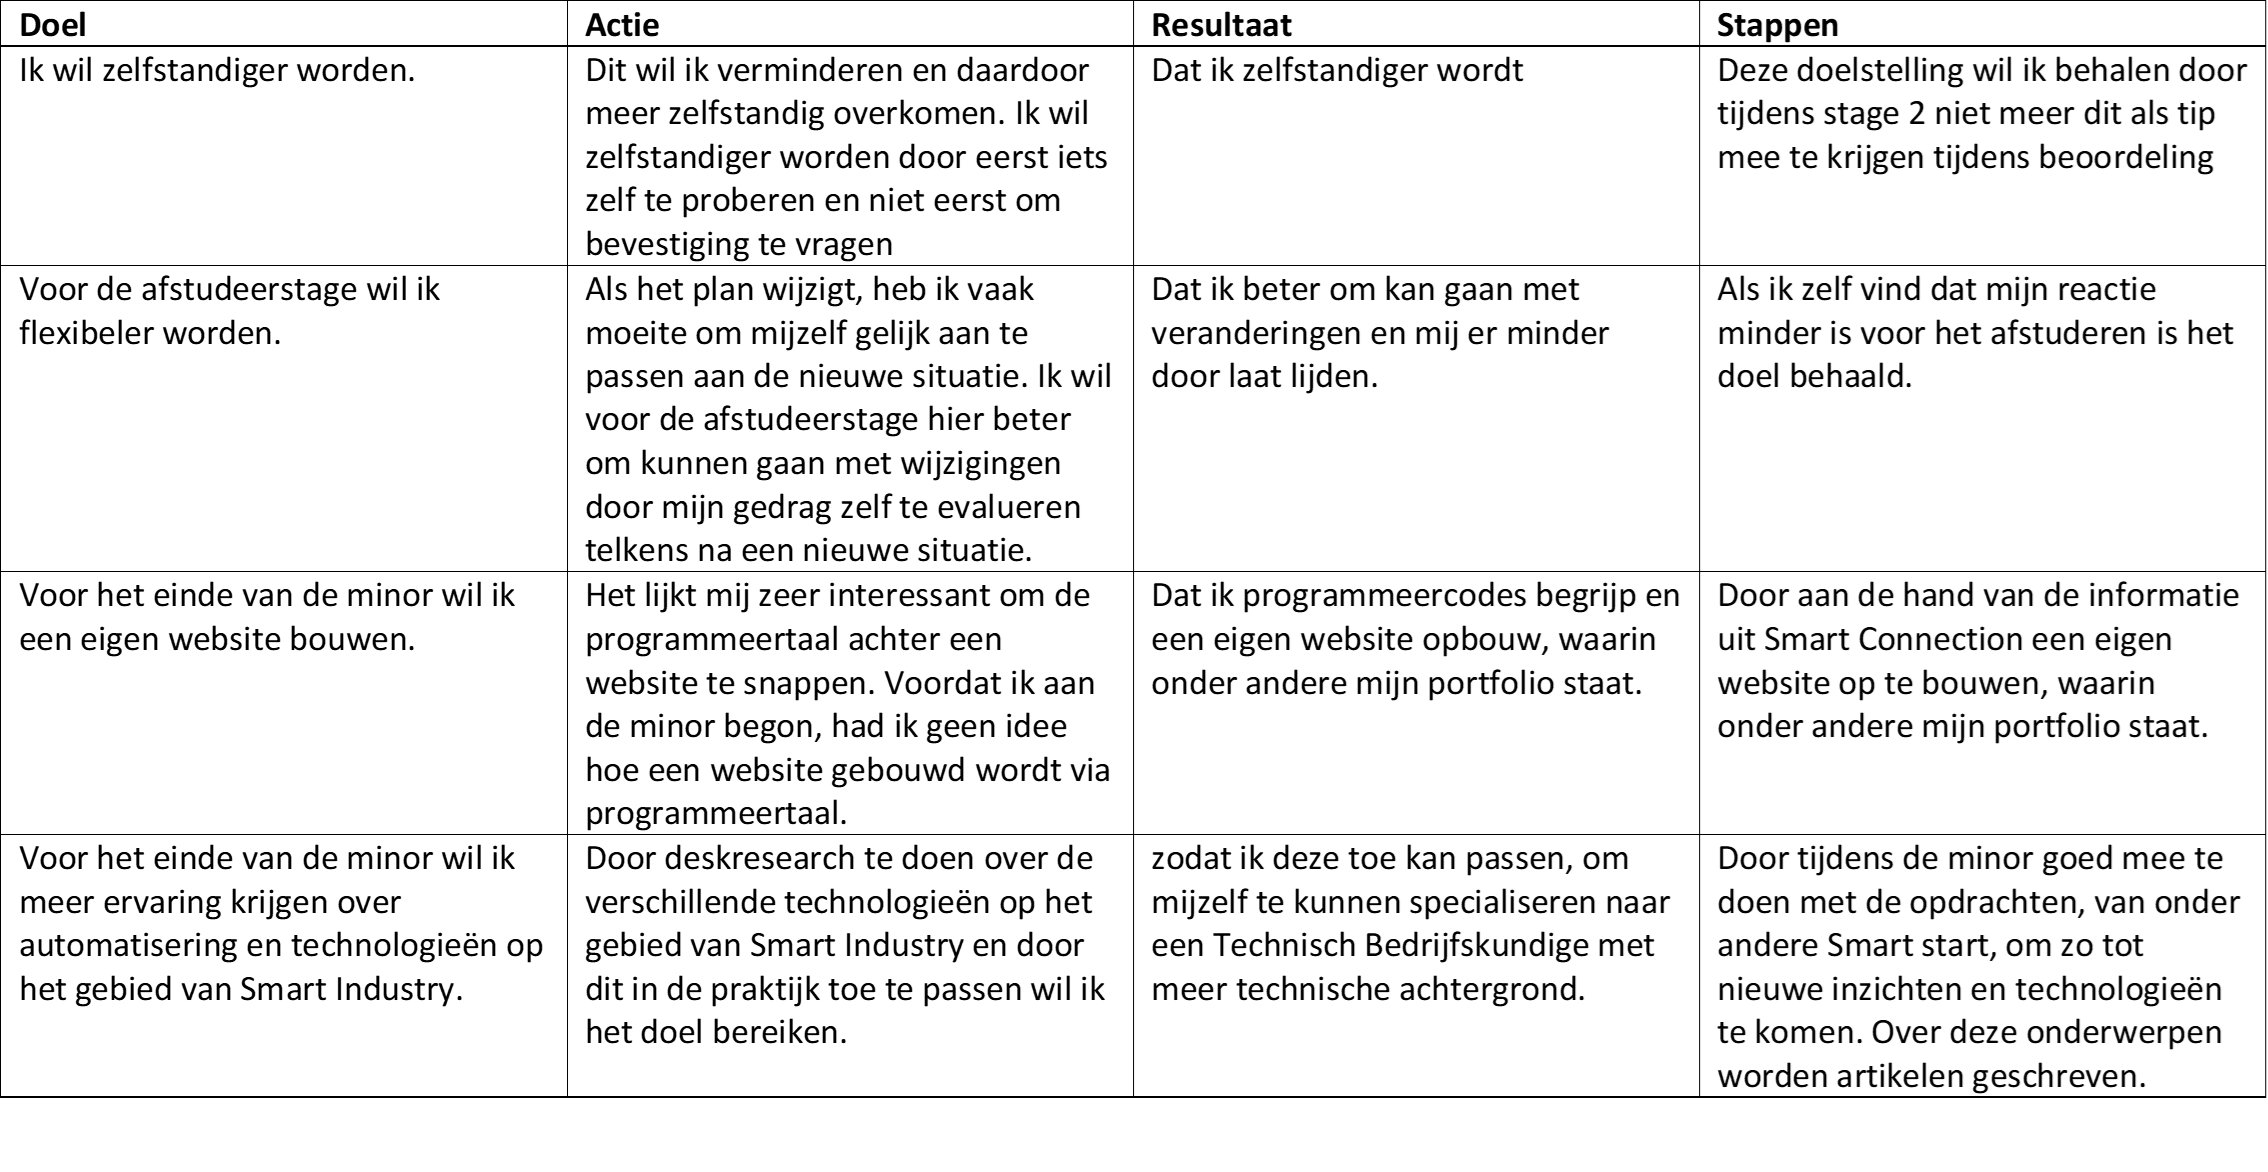
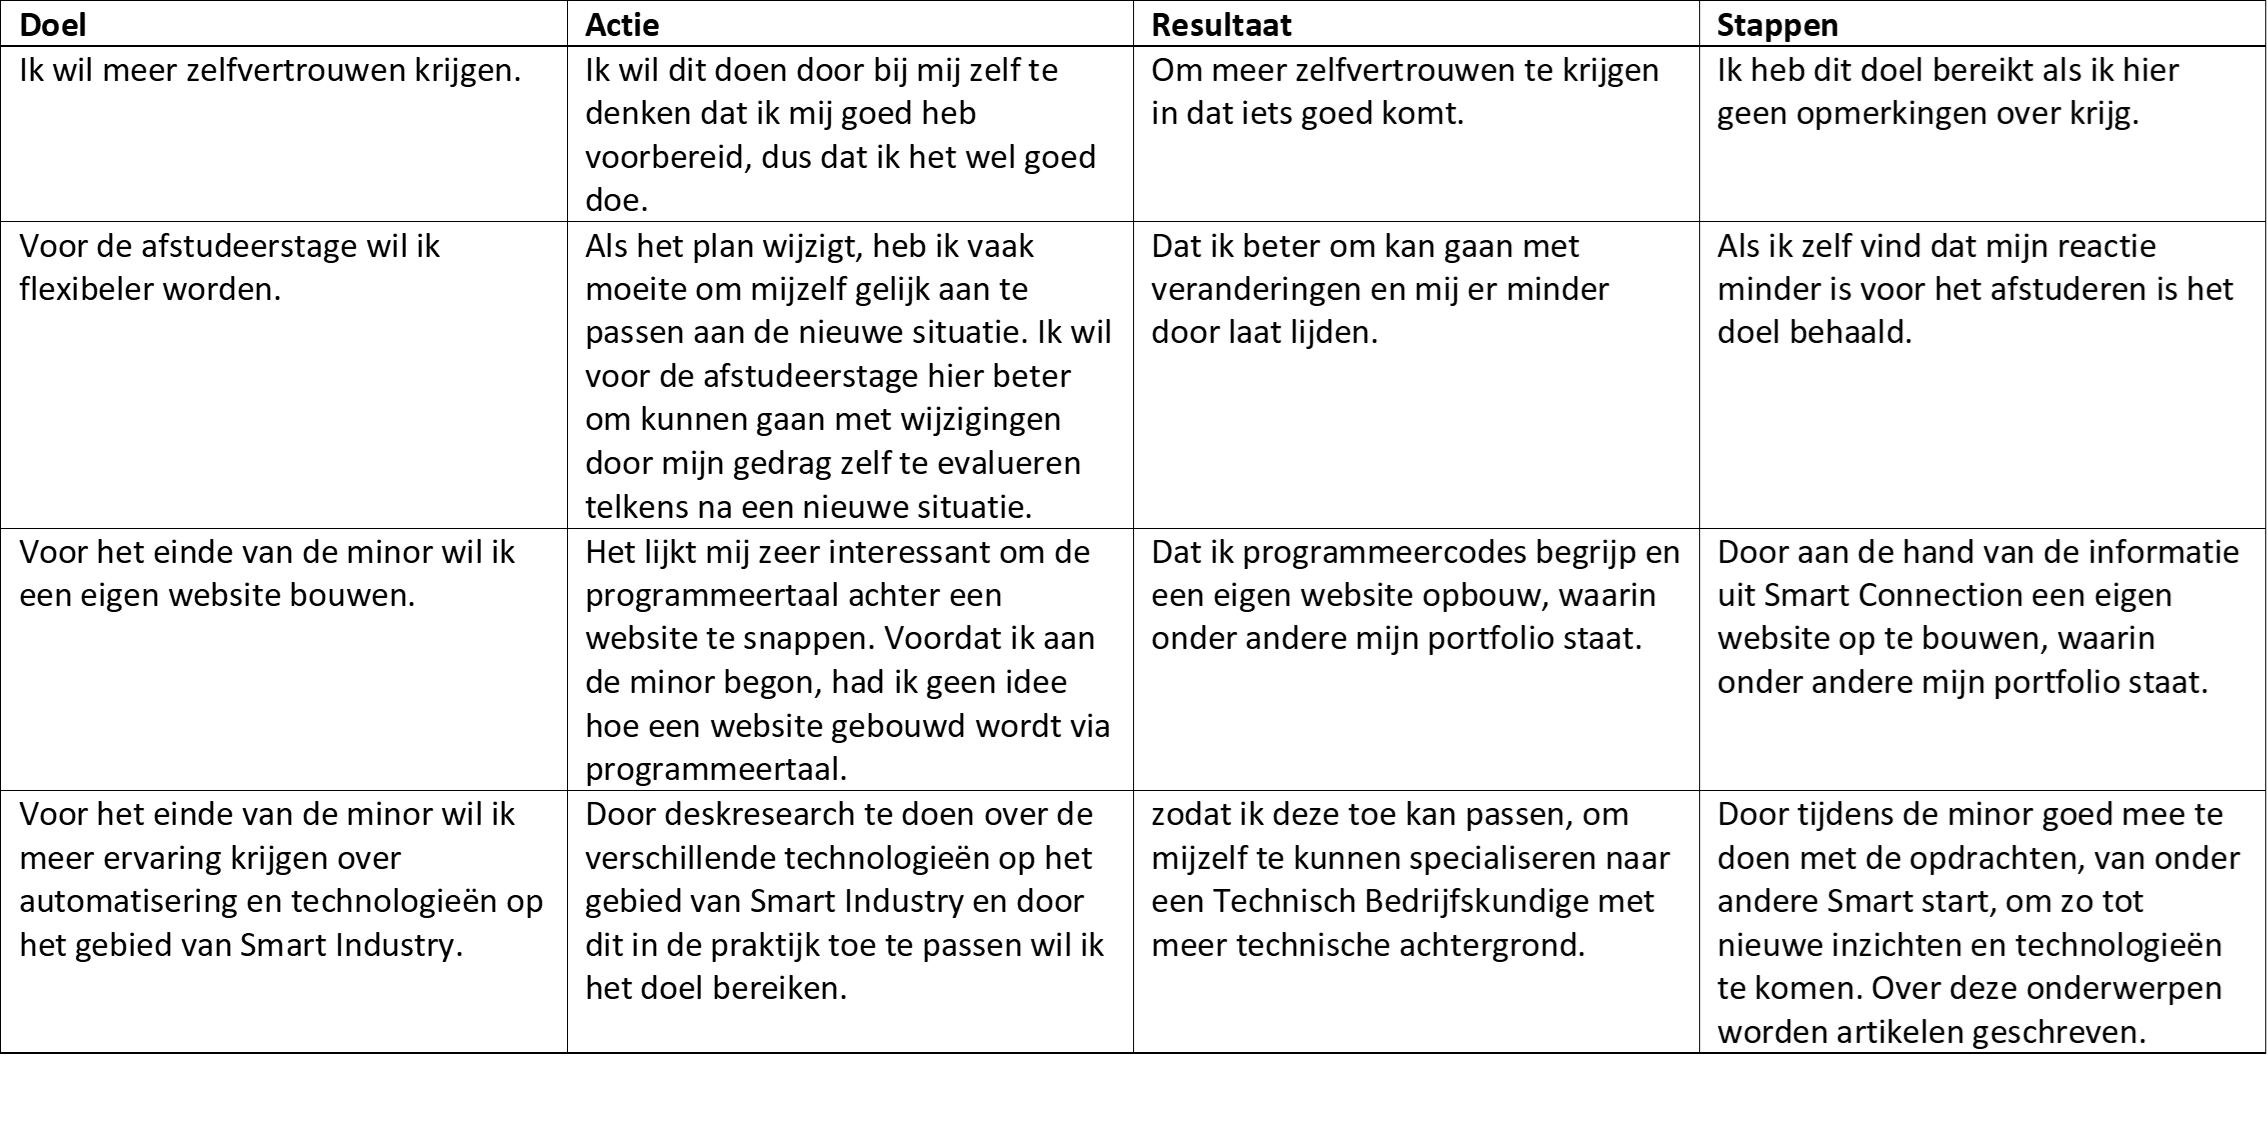
update 11-12-2020

Changed region(s): [[0.0, 0.0, 1.0, 0.9619], [0.7407, 0.1862, 0.9877, 0.3413], [0.0, 0.1862, 0.216, 0.3103]]

diff --git a/portfolio/SmartStart/SmartMe.html b/portfolio/SmartStart/SmartMe.html
@@ -74,7 +74,7 @@
     <div class="doelstelling">
         <h4>Doelstellingen geformuleerd:</h4> 
     <ul>
-        <li>Ik wil zelfstandiger worden. Op dit moment heb ik de neiging om voor veel dingen die ik doe eerst bevestiging te vragen voordat ik dit uitvoer. Dit wil ik verminderen en daardoor meer zelfstandig overkomen. Ik wil zelfstandiger worden door eerst iets zelf te proberen en niet eerst om bevestiging te vragen. Deze doelstelling wil ik behalen door tijdens stage 2 niet meer dit als tip mee te krijgen tijdens beoordeling. 
+        <li>Ik wil meer zelfvertrouwen krijgen. Op dit moment voel ik mij nog onzeker of ik zaken wel goed uitvoer. Ik wil dit doen door bij mij zelf te denken dat ik mij goed heb voorbereid, dus dat ik het wel goed doe. Ik heb dit doel bereikt als ik hier geen opmerkingen over krijg. 
         </li>
         <li>Voor de afstudeerstage wil ik flexibeler worden. Als het plan wijzigt, heb ik vaak moeite om mijzelf gelijk aan te passen aan de nieuwe situatie. Ik wil voor de afstudeerstage hier beter om kunnen gaan met wijzigingen door mijn gedrag zelf te evalueren telkens na een nieuwe situatie. Als ik zelf vind dat mijn reactie minder is voor het afstuderen is het doel behaald. 
         </li>
